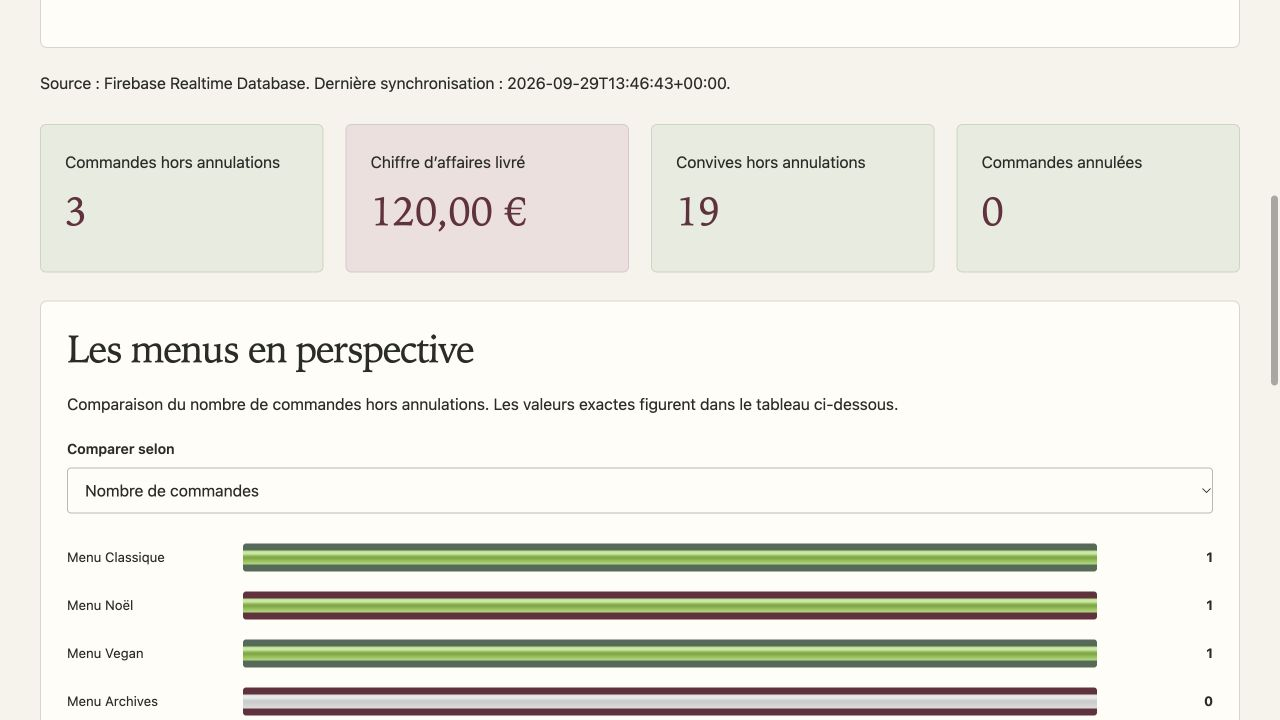
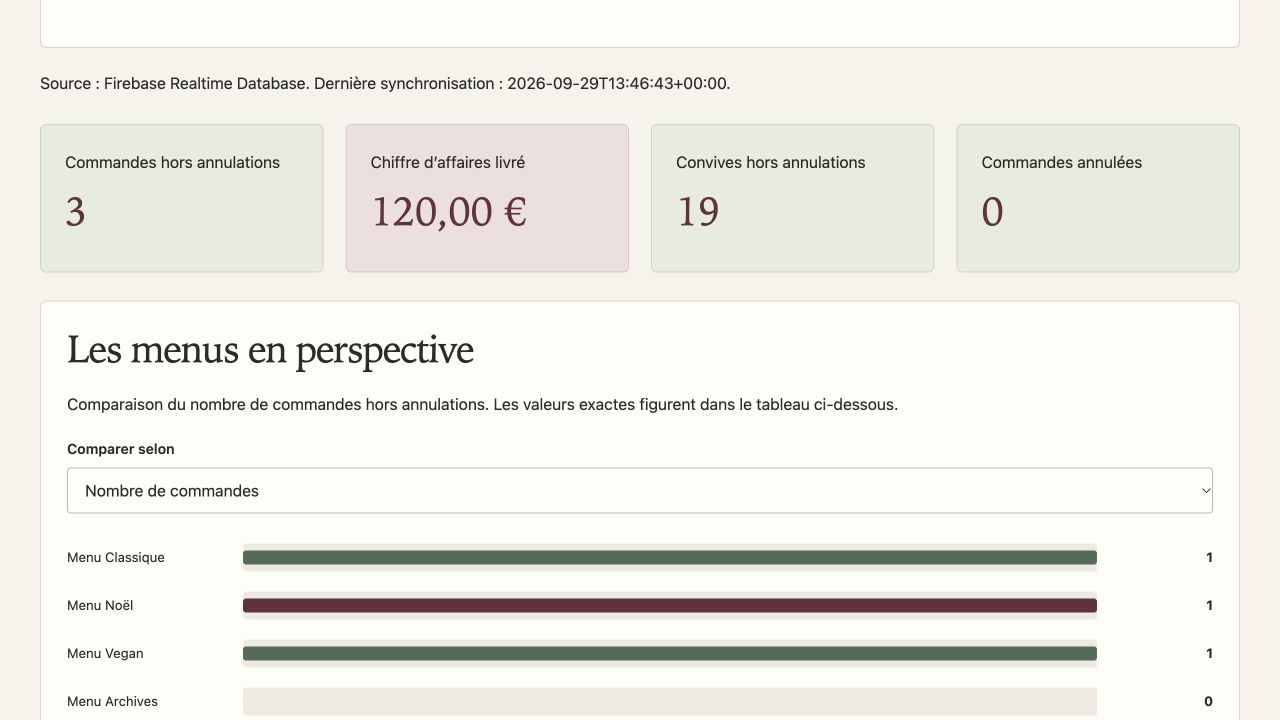
fix: finaliser les graphiques et préparer la livraison sans secrets

Changed region(s): [[0.1875, 0.7333, 0.875, 1.0], [0.9688, 0.275, 1.0, 0.5194]]

diff --git a/Public/style.css b/Public/style.css
@@ -229,9 +229,14 @@ td button { font-size: .73rem; padding: 8px 12px; }
 .chart-bars { display: grid; gap: 20px; margin: 30px 0; }
 .chart-row { display: grid; grid-template-columns: 160px minmax(0, 1fr) 100px; align-items: center; gap: 16px; font-size: .83rem; }
 .chart-track { height: 28px; background: #eeeae0; border-radius: 3px; overflow: hidden; }
-.chart-bar { display: block; height: 100%; background: var(--color-secondary); border-radius: 3px; min-width: 0; }
-meter { width: 100%; height: 28px; }
-.chart-row:nth-child(even) .chart-bar { background: var(--color-primary); }
+.chart-bar { --bar-color: var(--color-secondary); display: block; min-width: 0; }
+meter.chart-bar { appearance: none; width: 100%; height: 28px; background: #eeeae0; border: 0; border-radius: 3px; overflow: hidden; }
+meter.chart-bar::-webkit-meter-bar { height: 100%; background: #eeeae0; border: 0; border-radius: 3px; box-shadow: none; }
+meter.chart-bar::-webkit-meter-optimum-value { background: var(--bar-color); border-radius: 3px; }
+meter.chart-bar::-webkit-meter-suboptimum-value { background: var(--bar-color); border-radius: 3px; }
+meter.chart-bar::-webkit-meter-even-less-good-value { background: var(--bar-color); border-radius: 3px; }
+meter.chart-bar::-moz-meter-bar { background: var(--bar-color); border-radius: 3px; }
+.chart-row:nth-child(even) .chart-bar { --bar-color: var(--color-primary); }
 .chart-row > :last-child { text-align: right; }
 .historique { padding: 18px 22px; margin: 20px 0; border-left: 3px solid var(--color-secondary); background: #f0f1e9; }
 .historique li { padding: 4px 0; }
@@ -396,7 +401,6 @@ meter { width: 100%; height: 28px; }
 .gallery-preview { width: 100%; aspect-ratio: 1.5; object-fit: cover; }
 .staff-page .page-shell { overflow-wrap: anywhere; }
 .table-container, .table-responsive { max-width: 100%; overflow-x: auto; }
-meter.chart-bar { height: 28px; }
 .stats-grid { grid-template-columns: repeat(4, minmax(0, 1fr)); }
 @media (max-width: 860px) { .stats-grid { grid-template-columns: repeat(2, minmax(0, 1fr)); } }
 @media (max-width: 620px) {

diff --git a/Scripts/preparer-livraison.py b/Scripts/preparer-livraison.py
@@ -1,0 +1,113 @@
+#!/usr/bin/env python3
+"""Build a deployment ZIP from a clean checkout, excluding local data and secrets."""
+
+import hashlib
+import json
+import subprocess
+import tempfile
+import zipfile
+from datetime import datetime, timezone
+from pathlib import Path
+
+
+ROOT = Path(__file__).resolve().parent.parent
+RUNTIME_DIRECTORIES = {"Config", "Public", "Repositories", "Services", "Templates"}
+RUNTIME_FILES = {"composer.json", "composer.lock", "vite_gourmand.sql.sql"}
+
+
+def git(*arguments):
+    return subprocess.check_output(["git", *arguments], cwd=ROOT)
+
+
+def allowed(path):
+    return (
+        path.parts[0] in RUNTIME_DIRECTORIES
+        or str(path) in RUNTIME_FILES
+        or (path.parts[0] == "Scripts" and path.suffix == ".php")
+    )
+
+
+def verify_path(path):
+    lower = path.name.lower()
+    if (
+        path.is_absolute()
+        or ".." in path.parts
+        or lower.endswith(".local.php")
+        or lower == ".env"
+        or lower.startswith(".env.")
+        or "service-account" in lower
+        or "adminsdk" in lower
+        or lower.startswith("credentials")
+        or lower.endswith((".pem", ".key"))
+        or (path.parts[:3] == ("Public", "assets", "uploads")
+            and path.name not in {".gitkeep", ".htaccess"})
+    ):
+        raise RuntimeError(f"Fichier privé ou inattendu refusé : {path}")
+    if (ROOT / path).is_symlink() or not (ROOT / path).is_file():
+        raise RuntimeError(f"Fichier absent ou lien symbolique refusé : {path}")
+
+
+def build():
+    if git("status", "--porcelain").strip():
+        raise RuntimeError("Enregistrer les changements dans Git avant de préparer la livraison.")
+    if not (ROOT / "vendor/autoload.php").is_file():
+        raise RuntimeError("Exécuter composer install --no-dev avant de préparer la livraison.")
+    installed = json.loads((ROOT / "vendor/composer/installed.json").read_text())
+    lock = json.loads((ROOT / "composer.lock").read_text())
+    expected = {p["name"]: p["version"] for p in lock["packages"]}
+    actual = {p["name"]: p["version"] for p in installed["packages"]}
+    if actual != expected:
+        raise RuntimeError("Les dépendances installées ne correspondent pas au composer.lock de production.")
+
+    files = [Path(p.decode()) for p in git("ls-files", "-z").split(b"\0") if p]
+    files = [p for p in files if allowed(p)]
+    files.extend(p.relative_to(ROOT) for p in (ROOT / "vendor").rglob("*") if p.is_file())
+    files = sorted(set(files))
+    for path in files:
+        verify_path(path)
+    commit = git("rev-parse", "HEAD").decode().strip()
+    timestamp = datetime.fromtimestamp(int(git("show", "-s", "--format=%ct", "HEAD")), timezone.utc)
+    zip_date = timestamp.timetuple()[:6]
+
+    def add_file(archive, name, data):
+        entry = zipfile.ZipInfo(name, date_time=zip_date)
+        entry.compress_type = zipfile.ZIP_DEFLATED
+        entry.create_system = 3
+        entry.external_attr = 0o100644 << 16
+        archive.writestr(entry, data)
+
+    output = ROOT / "var/releases"
+    output.mkdir(parents=True, exist_ok=True)
+    destination = output / f"vite-gourmand-{commit[:12]}.zip"
+    manifest = {
+        "commit": commit,
+        "document_root": "Public",
+        "database_import": "vite_gourmand.sql.sql : base vide ou jetable uniquement (DROP TABLE)",
+        "configuration": "Créer Config/*.local.php et installer la clé Firebase hors de Public.",
+        "files": {},
+    }
+    with tempfile.NamedTemporaryFile(dir=output, suffix=".zip", delete=False) as temporary:
+        temporary_path = Path(temporary.name)
+    try:
+        with zipfile.ZipFile(temporary_path, "w", zipfile.ZIP_DEFLATED) as archive:
+            for path in files:
+                data = (ROOT / path).read_bytes()
+                manifest["files"][path.as_posix()] = hashlib.sha256(data).hexdigest()
+                add_file(archive, path.as_posix(), data)
+            add_file(archive, "RELEASE.json", json.dumps(manifest, ensure_ascii=False, indent=2) + "\n")
+        with zipfile.ZipFile(temporary_path) as archive:
+            if archive.testzip() is not None:
+                raise RuntimeError("L'archive a échoué au contrôle d'intégrité.")
+        temporary_path.replace(destination)
+    finally:
+        temporary_path.unlink(missing_ok=True)
+    checksum = hashlib.sha256(destination.read_bytes()).hexdigest()
+    destination.with_suffix(".sha256").write_text(f"{checksum}  {destination.name}\n")
+    print(f"Livraison préparée : {destination}\n{len(files)} fichiers + manifeste ; {destination.stat().st_size} octets")
+
+
+if __name__ == "__main__":
+    try:
+        build()
+    except (OSError, ValueError, KeyError, RuntimeError, subprocess.CalledProcessError) as error:
+        raise SystemExit(f"Échec de préparation : {error}")

diff --git a/docs/deploiement.md b/docs/deploiement.md
@@ -2,13 +2,19 @@
 
 ## État de livraison
 
-Le code est préparé pour un hébergement PHP/MariaDB. Au 29 septembre 2026, le projet Firebase `vite-gourmand-ecf2026` et sa Realtime Database en Belgique sont créés; les règles publiques de lecture et d'écriture sont fermées. La clé serveur est configurée et la synchronisation/lecture réelle a réussi sur les données de démonstration. Le compte alwaysdata `vite-gourmandecf2026` existe à Paris, mais affiche Medium (240 € HT/an). Le propriétaire a demandé son retour à Free : la tentative de validation a redirigé vers la connexion, donc le changement n'est pas encore confirmé. Reconnexion nécessaire avant de reprendre le déploiement. **Aucune URL publique de production n'est disponible et aucun déploiement réel n'est revendiqué.** Le lien local est `http://vite-gourmand.local`.
+Le code est préparé pour un hébergement PHP/MariaDB. Au 29 septembre 2026, le projet Firebase `vite-gourmand-ecf2026` et sa Realtime Database en Belgique sont créés; les règles publiques de lecture et d'écriture sont fermées. La clé serveur est configurée et la synchronisation/lecture réelle a réussi sur les données de démonstration. Le compte alwaysdata `vite-gourmandecf2026` existe à Paris, mais affiche Medium (240 € HT/an). Le propriétaire a demandé son retour à Free : la tentative de validation a redirigé vers la connexion, donc le changement n'est pas encore confirmé. La reconnexion Google aboutit à un profil sans abonnement : retrouver le profil propriétaire de cet hébergement avant de reprendre le déploiement, sans créer de compte supplémentaire. **Aucune URL publique de production n'est disponible et aucun déploiement réel n'est revendiqué.** Le lien local est `http://vite-gourmand.local`.
 
 ## Prérequis
 
 PHP 8.2 ou supérieur avec PDO/MySQL, mbstring, cURL, OpenSSL, GD, sessions et JSON; MySQL 8 ou MariaDB 10.4+; Composer 2; serveur Apache 2.4 ou Nginx/PHP-FPM; certificat HTTPS; sorties réseau HTTPS/443 et SMTP autorisées. Les tests ont utilisé PHP 8.2.4 et MariaDB XAMPP.
 
 Le serveur SQL doit utiliser Europe/Paris, comme PHP. `DB_TIMEZONE=Europe/Paris` peut fixer la session lorsque les tables de fuseaux MySQL sont disponibles. Sinon configurer le fuseau système du serveur SQL; ne pas utiliser un simple décalage fixe qui serait faux lors des changements d'heure. Vérifier les dates d'un historique et `SELECT @@session.time_zone, NOW()` après installation.
+
+## Archive de livraison
+
+Après `composer install --no-dev` et enregistrement des changements dans Git, exécuter `python3 Scripts/preparer-livraison.py` depuis le poste de développement. Le script refuse un dépôt modifié ou des dépendances qui ne correspondent pas au fichier de verrouillage. Il crée dans `var/releases/` une archive ZIP nommée d'après le commit, un manifeste des fichiers et une empreinte SHA-256. Les dates des entrées ZIP sont fixées à celle du commit.
+
+L'archive inclut le code d'exécution, les dépendances Composer, les scripts PHP et le dump fictif. Elle exclut les configurations locales, clés, données métier, images téléversées, tests et documents. Décompresser dans le répertoire privé de l'application, puis configurer le site avec `Public/` comme racine HTTP. Le dump comporte des `DROP TABLE` et reste réservé à une base vide ou jetable. La génération de l'archive ne réalise aucun déploiement.
 
 ## Installation sur base vide
 
@@ -63,6 +69,8 @@ Vérifier la réception réelle avec une adresse de recette contrôlée : bienve
 ## Firebase
 
 Suivre `nosql.md` : créer une Realtime Database, règles fermées au public, compte de service autorisé, clé privée hors DocumentRoot, URL HTTPS dans la configuration serveur. Exécuter la synchronisation avant de visiter le dashboard. Un service indisponible produit une erreur 503 explicite, jamais des chiffres SQL présentés comme des chiffres NoSQL.
+
+Sur le Mac XAMPP, Apache utilise le compte système `daemon`, distinct du compte qui lance PHP en terminal. Après accord du propriétaire, la clé a été placée hors du dépôt et de la racine HTTP : dossier privé mode 700 et fichier mode 600, avec une ACL autorisant uniquement la traversée du dossier et la lecture du fichier à `daemon`. Une lecture Firebase par Apache a été vérifiée (HTTP 200, 5 menus) le 29 septembre; la sonde temporaire limitée au localhost a été supprimée. Sur l'hébergement, adapter ces droits au compte PHP réel plutôt que recopier un nom de compte propre au Mac.
 
 ## Tâches planifiées
 

diff --git a/docs/plan-tests.md b/docs/plan-tests.md
@@ -50,6 +50,8 @@ Le dernier test doit sortir 77 / NON EXÉCUTÉ sans activation explicite. L'URL 
 | integration_http.py | 126 assertions réussies | HTTP réel + MariaDB + capture SMTP, trois rôles, parcours et attaques basiques |
 | images.php | 4 contrôles réussis | SVG refusé, PNG réencodé avec nom sûr, alt modifié, retrait galerie |
 | statistics-live.php | Réussi le 29 septembre 2026 | Lecture réelle Firebase après PUT de 5 menus/2 jours, code0 |
+| Apache XAMPP et Firebase | Réussi le 29 septembre 2026 | Lecture sous le compte daemon, HTTP200 et 5 menus; sonde locale supprimée |
+| Archive de livraison | Réussie le 29 septembre 2026 | 164 fichiers + manifeste; dépendances, permissions 644, empreintes et exclusions contrôlées; deux générations de même SHA-256 |
 
 La première recette upload a révélé l'absence de imagewebp dans GD XAMPP. Le réencodage a été changé en PNG et les quatre contrôles ont ensuite réussi. Les anciennes erreurs du journal restent des traces de diagnostic, pas des erreurs persistantes.
 
@@ -77,6 +79,8 @@ La première recette upload a révélé l'absence de imagewebp dans GD XAMPP. Le
 ## Recette navigateur
 
 Les 22 pages principales publiques/client/admin ont été contrôlées à 390, 768 et 1 440 px, avec captures dans `captures/` et mesures dans `recette-responsive.json`. Largeur du document contrôlée, h1 unique, labels et alternatives images. Navigation mobile et filtres fetch vérifiés. Lecture visuelle des captures : identité cohérente, champs utilisables et absence de chevauchement sur les vues inspectées.
+
+Complément du 29 septembre : graphique Firebase réel contrôlé en desktop et à 390 px. Les barres natives utilisent désormais les couleurs sauge/bordeaux et affichent les valeurs nulles sur un fond neutre. Le graphique du CA et les valeurs textuelles restent cohérents; largeur document 390 px pour un viewport de 390 px. Captures `statistiques-firebase-reel.png` et `statistiques-firebase-mobile.png`.
 
 Les six mockups (accueil, détail menu, contact en desktop et mobile) sont des captures de l'interface implémentée. Les wireframes sont reconstruits pour documenter l'organisation finale, pas présentés comme une preuve de conception antérieure au code.
 

diff --git a/docs/rapport-final.md b/docs/rapport-final.md
@@ -96,6 +96,7 @@ Différence par rapport au commit de départ e7f6cee, configurations privées et
 - `Repositories/StatisticsRepository.php`
 - `Scripts/generer-documents.py`
 - `Scripts/migrer-schema.php`
+- `Scripts/preparer-livraison.py`
 - `Scripts/synchroniser-statistiques.php`
 - `Services/CatalogueValidation.php`
 - `Services/MenuImages.php`
@@ -130,6 +131,8 @@ Différence par rapport au commit de départ e7f6cee, configurations privées et
 - `docs/captures/mon-profil.png`
 - `docs/captures/mot-de-passe-oublie.png`
 - `docs/captures/register.png`
+- `docs/captures/statistiques-firebase-reel.png`
+- `docs/captures/statistiques-firebase-mobile.png`
 - `docs/charte-graphique.md`
 - `docs/charte-graphique.pdf`
 - `docs/checklist-finale.md`
